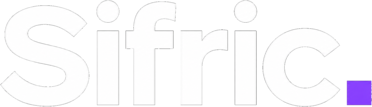
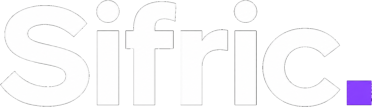
Reduce Sifric wordmark size and transparency

diff --git a/worker/public/index.html b/worker/public/index.html
@@ -213,7 +213,7 @@ kbd{font:600 11px Geist,Inter;color:var(--sub);border:1px solid var(--line);bord
 .maplibregl-ctrl-attrib{display:none!important}
 body.attribution-open .maplibregl-ctrl-attrib{display:block!important}
 body.attribution-open .maplibregl-ctrl-attrib-button{display:none!important}
-#sifric-brand{position:absolute;z-index:8;left:16px;bottom:calc(76px + env(safe-area-inset-bottom));width:84px;border:0;background:none;padding:0;opacity:1;cursor:pointer;filter:drop-shadow(0 1px 2px rgba(0,0,0,.42))}
+#sifric-brand{position:absolute;z-index:8;left:16px;bottom:calc(76px + env(safe-area-inset-bottom));width:64px;border:0;background:none;padding:0;opacity:1;cursor:pointer;filter:drop-shadow(0 1px 2px rgba(0,0,0,.42))}
 #sifric-brand img{display:block;width:100%;height:auto}
 #sifric-brand:focus-visible{outline:2px solid var(--acc);outline-offset:3px;border-radius:5px}
 .maplibregl-ctrl-scale{border-color:var(--sub)!important;border-radius:0 6px 0 0}
